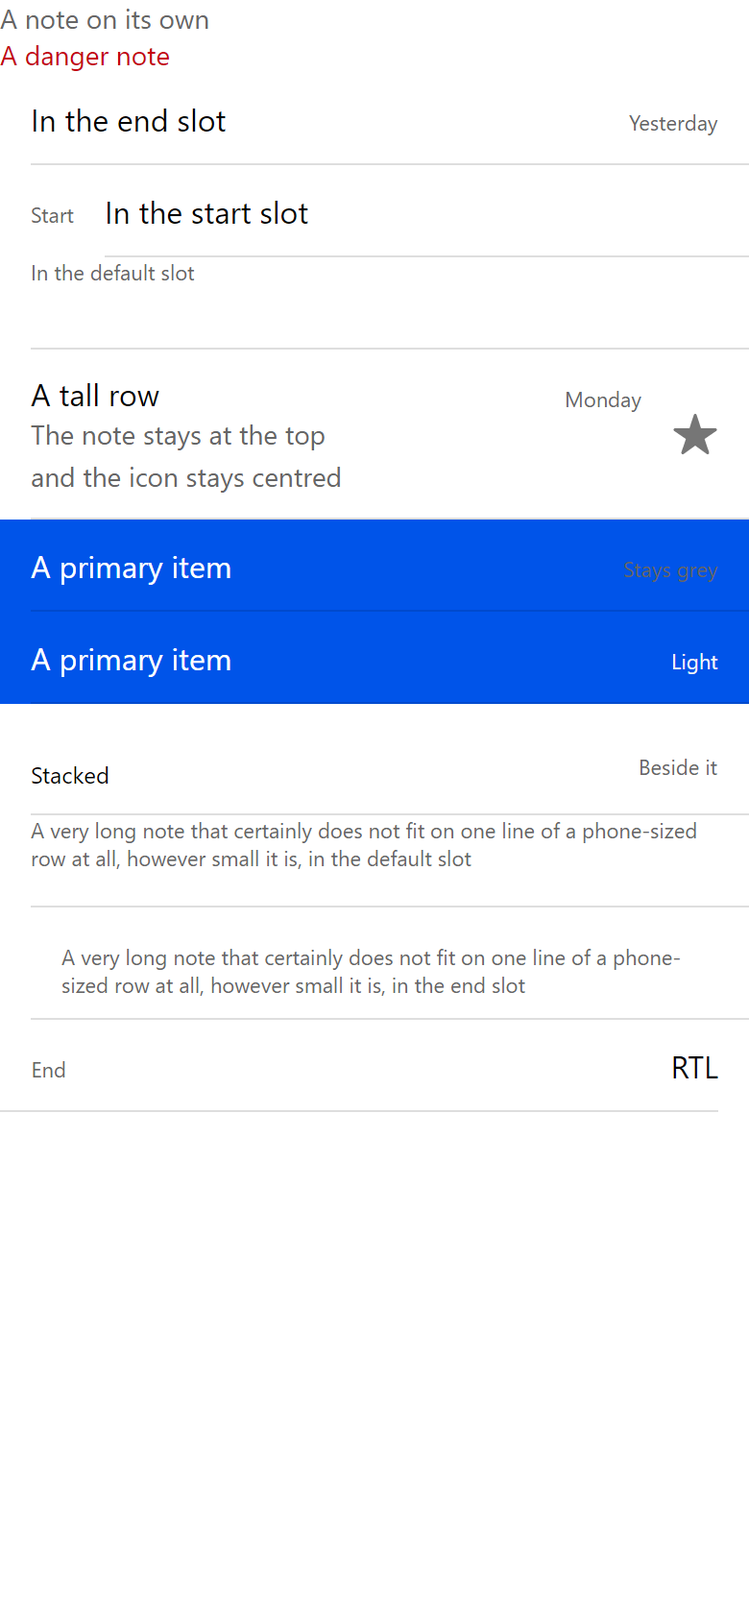
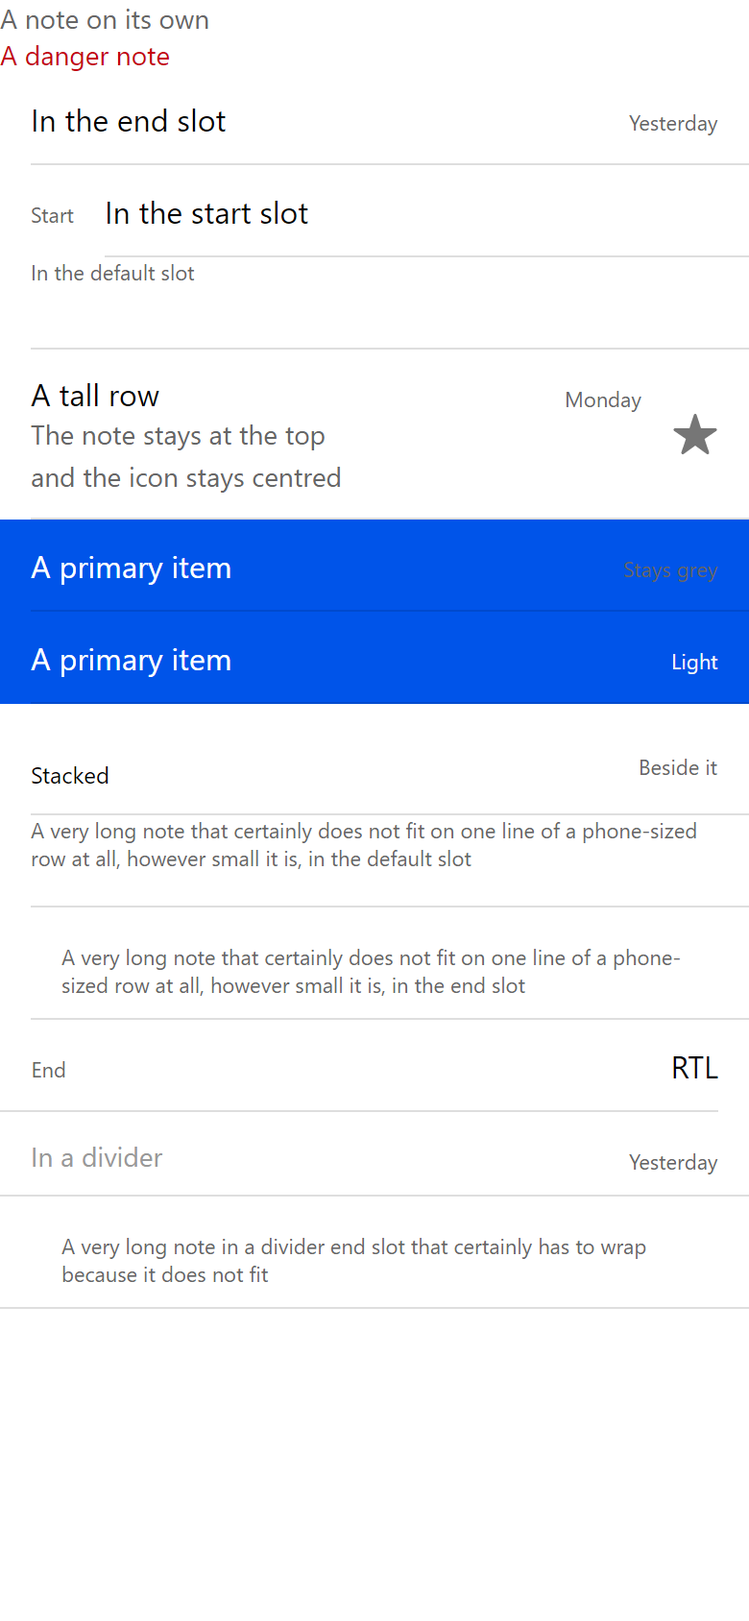
fix: a note in a divider has its slotted styles
item-divider.md.css repeats item.md.css's two ::slotted(ion-note) rules word for word. The divider's plan left them to
ion-note, and ion-note's left them to the divider, so a note in a divider was 14 px and centred. The two rules in
Styles/Note.axaml now match :is(c|IItemHost) instead of c|AvonicItem, which covers the divider at no extra alternatives,
as a group has no slots. Measured against h3 in ion-item's cases: 342 wide and 52 high at y = 0, in a divider of 53.

Closes #74

Changed region(s): [[0.0923, 0.7701, 0.3692, 0.8009], [0.0308, 0.7085, 0.2154, 0.7393], [0.8308, 0.7085, 0.9538, 0.7393]]

diff --git a/docs/components/ion-note/ref/page.html b/docs/components/ion-note/ref/page.html
@@ -5,4 +5,4 @@
 <script>window.Ionic = { config: { mode: 'md' } };</script>
 <script type="module" src="/node_modules/@ionic/core/dist/ionic/ionic.esm.js"></script>
 <style>html,body{margin:0;height:100%;background:var(--ion-background-color,#fff)}</style>
-</head><body><div id="stage"><div><ion-note>A note on its own</ion-note></div><div><ion-note color="danger">A danger note</ion-note></div><ion-item><ion-label>In the end slot</ion-label><ion-note slot="end">Yesterday</ion-note></ion-item><ion-item><ion-note slot="start">Start</ion-note><ion-label>In the start slot</ion-label></ion-item><ion-item><ion-note>In the default slot</ion-note></ion-item><ion-item><ion-label><h2>A tall row</h2><p>The note stays at the top</p><p>and the icon stays centred</p></ion-label><ion-note slot="end">Monday</ion-note><ion-icon name="star" slot="end"></ion-icon></ion-item><ion-item color="primary"><ion-label>A primary item</ion-label><ion-note slot="end">Stays grey</ion-note></ion-item><ion-item color="primary"><ion-label>A primary item</ion-label><ion-note slot="end" color="light">Light</ion-note></ion-item><ion-item><ion-label position="stacked">Stacked</ion-label><ion-note slot="end">Beside it</ion-note></ion-item><ion-item><ion-note>A very long note that certainly does not fit on one line of a phone-sized row at all, however small it is, in the default slot</ion-note></ion-item><ion-item><ion-note slot="end">A very long note that certainly does not fit on one line of a phone-sized row at all, however small it is, in the end slot</ion-note></ion-item><div dir="rtl"><ion-item><ion-label>RTL</ion-label><ion-note slot="end">End</ion-note></ion-item></div></div></body></html>
+</head><body><div id="stage"><div><ion-note>A note on its own</ion-note></div><div><ion-note color="danger">A danger note</ion-note></div><ion-item><ion-label>In the end slot</ion-label><ion-note slot="end">Yesterday</ion-note></ion-item><ion-item><ion-note slot="start">Start</ion-note><ion-label>In the start slot</ion-label></ion-item><ion-item><ion-note>In the default slot</ion-note></ion-item><ion-item><ion-label><h2>A tall row</h2><p>The note stays at the top</p><p>and the icon stays centred</p></ion-label><ion-note slot="end">Monday</ion-note><ion-icon name="star" slot="end"></ion-icon></ion-item><ion-item color="primary"><ion-label>A primary item</ion-label><ion-note slot="end">Stays grey</ion-note></ion-item><ion-item color="primary"><ion-label>A primary item</ion-label><ion-note slot="end" color="light">Light</ion-note></ion-item><ion-item><ion-label position="stacked">Stacked</ion-label><ion-note slot="end">Beside it</ion-note></ion-item><ion-item><ion-note>A very long note that certainly does not fit on one line of a phone-sized row at all, however small it is, in the default slot</ion-note></ion-item><ion-item><ion-note slot="end">A very long note that certainly does not fit on one line of a phone-sized row at all, however small it is, in the end slot</ion-note></ion-item><div dir="rtl"><ion-item><ion-label>RTL</ion-label><ion-note slot="end">End</ion-note></ion-item></div><ion-item-divider><ion-label>In a divider</ion-label><ion-note slot="end">Yesterday</ion-note></ion-item-divider><ion-item-divider><ion-label>Default</ion-label><ion-note slot="end">A very long note in a divider end slot that certainly has to wrap because it does not fit</ion-note></ion-item-divider></div></body></html>

diff --git a/tests/Avonic.Components.Tests/Controls/AvonicNoteTests.cs b/tests/Avonic.Components.Tests/Controls/AvonicNoteTests.cs
@@ -754,4 +754,88 @@ public class AvonicNoteTests
         // A mirrored element's origin is its right-hand edge.
         Assert.Equal(16, Box(note, scene.Window).X - note.Bounds.Width, 1);
     });
+
+    // ── 16. In a divider ─────────────────────────────────────────────────────────────────────
+    // item-divider.md.css has item.md.css's two ::slotted(ion-note) rules, word for word. The numbers are from
+    // docs/components/ion-item/ref/layout/cases.txt, row h3, and the divider's own cases.
+
+    [AvaloniaFact]
+    public void B16_In_A_Dividers_Slots_It_Is_11() => InstalledTheme.Run(_ =>
+    {
+        var start = new AvonicNote { Content = "x" };
+        var main = new AvonicNote { Content = "x" };
+        var end = new AvonicNote { Content = "x" };
+        var inPanel = new AvonicNote { Content = "x" };
+        var deeper = new AvonicNote { Content = "x" };
+        using var scene = InScene(
+            new AvonicItemDivider { StartContent = start, Content = main, EndContent = end },
+            new AvonicItemDivider { FontSize = 30, EndContent = new StackPanel { Children = { inPanel } } },
+            new AvonicItemDivider { EndContent = new Border { Child = deeper } });
+
+        Assert.Equal(11, Text(start).FontSize);
+        Assert.Equal(11, Text(main).FontSize);
+        Assert.Equal(11, Text(end).FontSize);
+        Assert.Equal(11, Text(inPanel).FontSize);
+        Assert.Equal(14, Text(deeper).FontSize);
+    });
+
+    [AvaloniaFact]
+    public void B16_In_A_Dividers_Start_And_End_Slots_It_Has_Padding() => InstalledTheme.Run(_ =>
+    {
+        var start = new AvonicNote { Content = "x" };
+        var main = new AvonicNote { Content = "x" };
+        var end = new AvonicNote { Content = "x" };
+        var inPanel = new AvonicNote { Content = "x" };
+        using var scene = InScene(
+            new AvonicItemDivider { StartContent = start, Content = main, EndContent = end },
+            new AvonicItemDivider { EndContent = new StackPanel { Children = { inPanel } } });
+
+        foreach (var note in new[] { start, end, inPanel })
+        {
+            Assert.Equal(new Thickness(0, 18, 0, 10), note.Padding);
+            Assert.Equal(28 + Text(note).Bounds.Height, note.Bounds.Height);
+        }
+        Assert.Equal(default, main.Padding);
+    });
+
+    [AvaloniaFact]
+    public void B16_It_Is_At_The_Top_Of_A_Divider_And_The_Rest_Is_Centred() => InstalledTheme.Run(_ =>
+    {
+        var start = new AvonicNote { Content = "x" };
+        var end = new AvonicNote { Content = "x" };
+        var inPanel = new AvonicNote { Content = "x" };
+        var other = new TextBlock { Text = "x" };
+        var dividerStart = new AvonicItemDivider { StartContent = start, Content = Tall() };
+        var dividerEnd = new AvonicItemDivider { Content = Tall(), EndContent = end };
+        var dividerPanel = new AvonicItemDivider { Content = Tall(), EndContent = new StackPanel { Orientation = Orientation.Horizontal, Children = { inPanel, other } } };
+        using var scene = InScene(dividerStart, dividerEnd, dividerPanel);
+
+        Assert.True(dividerEnd.Bounds.Height >= 90);
+        Assert.Equal(0, Box(start, dividerStart).Y);
+        Assert.Equal(0, Box(end, dividerEnd).Y);
+        Assert.Equal(0, Box(inPanel, dividerPanel).Y);
+        Assert.True(start.Bounds.Height < 50);
+        Assert.True(end.Bounds.Height < 50);
+        Assert.True(inPanel.Bounds.Height < 50);
+        Assert.InRange(Box(other, dividerPanel).Center.Y - dividerPanel.Bounds.Height / 2, -1, 1);
+        Assert.True(other.Bounds.Height < 25);
+    });
+
+    [AvaloniaFact]
+    public void B16_A_Long_Note_In_A_Dividers_End_Slot_Fills_The_Row_From_The_Top() => InstalledTheme.Run(_ =>
+    {
+        // h3: the note is 342 wide and 52 high at x = 32, y = 0, in a divider of 53. Its height is two lines and the padding.
+        // Its box is as wide as its longest line here, not the slot, which is the item's recorded gap for a long note in a slot.
+        var note = new AvonicNote { Content = "A very long note in a divider end slot that certainly has to wrap because it does not fit" };
+        var divider = new AvonicItemDivider { Content = new AvonicLabel { Content = "Default" }, EndContent = note };
+        using var scene = InScene(divider);
+
+        var box = Box(note, divider);
+        Assert.Equal(32, box.X);
+        Assert.Equal(0, box.Y);
+        Assert.InRange(box.Width, 300, 342);
+        Assert.Equal(28 + Text(note).Bounds.Height, box.Height);
+        Assert.Equal(2, Text(note).TextLayout.TextLines.Count);
+        Assert.Equal(box.Height + 1, divider.Bounds.Height);
+    });
 }

diff --git a/tests/Avonic.Components.Tests/Controls/AvonicNoteCaptureTests.cs b/tests/Avonic.Components.Tests/Controls/AvonicNoteCaptureTests.cs
@@ -64,6 +64,8 @@ public class AvonicNoteCaptureTests
                     EndContent = new AvonicNote { Content = "End" },
                     FlowDirection = FlowDirection.RightToLeft,
                 },
+                new AvonicItemDivider { Content = Label("In a divider"), EndContent = new AvonicNote { Content = "Yesterday" } },
+                new AvonicItemDivider { Content = Label("Default"), EndContent = new AvonicNote { Content = "A very long note in a divider end slot that certainly has to wrap because it does not fit" } },
             },
         };
 
@@ -84,5 +86,10 @@ public class AvonicNoteCaptureTests
         // Measured in Ionic: a long note in the end slot wraps at 342. Aligned left, this is as wide as its longest line.
         var longEnd = (AvonicNote)((AvonicItem)page.Children[10]).EndContent!;
         Assert.InRange(longEnd.Bounds.Width, 300, 342);
+
+        // h3 in docs/components/ion-item/ref/layout/cases.txt: 342 wide at y = 0 in a divider of 53. The same width gap as the item's.
+        var inDivider = (AvonicNote)((AvonicItemDivider)page.Children[13]).EndContent!;
+        Assert.InRange(inDivider.Bounds.Width, 300, 342);
+        Assert.Equal(0, inDivider.TranslatePoint(default, page.Children[13])!.Value.Y);
     });
 }

diff --git a/docs/components/ion-note/ref/README.md b/docs/components/ion-note/ref/README.md
@@ -1,9 +1,9 @@
 # ion-note — reference render (Ionic 8.8.1, md, 390×844@2x)
 
-Generated by `node tools/ionic-ref/render.js ion-note --bare --html "<div><ion-note>A note on its own</ion-note></div><div><ion-note color=\"danger\">A danger note</ion-note></div><ion-item><ion-label>In the end slot</ion-label><ion-note slot=\"end\">Yesterday</ion-note></ion-item><ion-item><ion-note slot=\"start\">Start</ion-note><ion-label>In the start slot</ion-label></ion-item><ion-item><ion-note>In the default slot</ion-note></ion-item><ion-item><ion-label><h2>A tall row</h2><p>The note stays at the top</p><p>and the icon stays centred</p></ion-label><ion-note slot=\"end\">Monday</ion-note><ion-icon name=\"star\" slot=\"end\"></ion-icon></ion-item><ion-item color=\"primary\"><ion-label>A primary item</ion-label><ion-note slot=\"end\">Stays grey</ion-note></ion-item><ion-item color=\"primary\"><ion-label>A primary item</ion-label><ion-note slot=\"end\" color=\"light\">Light</ion-note></ion-item><ion-item><ion-label position=\"stacked\">Stacked</ion-label><ion-note slot=\"end\">Beside it</ion-note></ion-item><ion-item><ion-note>A very long note that certainly does not fit on one line of a phone-sized row at all, however small it is, in the default slot</ion-note></ion-item><ion-item><ion-note slot=\"end\">A very long note that certainly does not fit on one line of a phone-sized row at all, however small it is, in the end slot</ion-note></ion-item><div dir=\"rtl\"><ion-item><ion-label>RTL</ion-label><ion-note slot=\"end\">End</ion-note></ion-item></div>"`
+Generated by `node tools/ionic-ref/render.js ion-note --bare --html "<div><ion-note>A note on its own</ion-note></div><div><ion-note color=\"danger\">A danger note</ion-note></div><ion-item><ion-label>In the end slot</ion-label><ion-note slot=\"end\">Yesterday</ion-note></ion-item><ion-item><ion-note slot=\"start\">Start</ion-note><ion-label>In the start slot</ion-label></ion-item><ion-item><ion-note>In the default slot</ion-note></ion-item><ion-item><ion-label><h2>A tall row</h2><p>The note stays at the top</p><p>and the icon stays centred</p></ion-label><ion-note slot=\"end\">Monday</ion-note><ion-icon name=\"star\" slot=\"end\"></ion-icon></ion-item><ion-item color=\"primary\"><ion-label>A primary item</ion-label><ion-note slot=\"end\">Stays grey</ion-note></ion-item><ion-item color=\"primary\"><ion-label>A primary item</ion-label><ion-note slot=\"end\" color=\"light\">Light</ion-note></ion-item><ion-item><ion-label position=\"stacked\">Stacked</ion-label><ion-note slot=\"end\">Beside it</ion-note></ion-item><ion-item><ion-note>A very long note that certainly does not fit on one line of a phone-sized row at all, however small it is, in the default slot</ion-note></ion-item><ion-item><ion-note slot=\"end\">A very long note that certainly does not fit on one line of a phone-sized row at all, however small it is, in the end slot</ion-note></ion-item><div dir=\"rtl\"><ion-item><ion-label>RTL</ion-label><ion-note slot=\"end\">End</ion-note></ion-item></div><ion-item-divider><ion-label>In a divider</ion-label><ion-note slot=\"end\">Yesterday</ion-note></ion-item-divider><ion-item-divider><ion-label>Default</ion-label><ion-note slot=\"end\">A very long note in a divider end slot that certainly has to wrap because it does not fit</ion-note></ion-item-divider>"`
 
 ```html
-<div><ion-note>A note on its own</ion-note></div><div><ion-note color="danger">A danger note</ion-note></div><ion-item><ion-label>In the end slot</ion-label><ion-note slot="end">Yesterday</ion-note></ion-item><ion-item><ion-note slot="start">Start</ion-note><ion-label>In the start slot</ion-label></ion-item><ion-item><ion-note>In the default slot</ion-note></ion-item><ion-item><ion-label><h2>A tall row</h2><p>The note stays at the top</p><p>and the icon stays centred</p></ion-label><ion-note slot="end">Monday</ion-note><ion-icon name="star" slot="end"></ion-icon></ion-item><ion-item color="primary"><ion-label>A primary item</ion-label><ion-note slot="end">Stays grey</ion-note></ion-item><ion-item color="primary"><ion-label>A primary item</ion-label><ion-note slot="end" color="light">Light</ion-note></ion-item><ion-item><ion-label position="stacked">Stacked</ion-label><ion-note slot="end">Beside it</ion-note></ion-item><ion-item><ion-note>A very long note that certainly does not fit on one line of a phone-sized row at all, however small it is, in the default slot</ion-note></ion-item><ion-item><ion-note slot="end">A very long note that certainly does not fit on one line of a phone-sized row at all, however small it is, in the end slot</ion-note></ion-item><div dir="rtl"><ion-item><ion-label>RTL</ion-label><ion-note slot="end">End</ion-note></ion-item></div>
+<div><ion-note>A note on its own</ion-note></div><div><ion-note color="danger">A danger note</ion-note></div><ion-item><ion-label>In the end slot</ion-label><ion-note slot="end">Yesterday</ion-note></ion-item><ion-item><ion-note slot="start">Start</ion-note><ion-label>In the start slot</ion-label></ion-item><ion-item><ion-note>In the default slot</ion-note></ion-item><ion-item><ion-label><h2>A tall row</h2><p>The note stays at the top</p><p>and the icon stays centred</p></ion-label><ion-note slot="end">Monday</ion-note><ion-icon name="star" slot="end"></ion-icon></ion-item><ion-item color="primary"><ion-label>A primary item</ion-label><ion-note slot="end">Stays grey</ion-note></ion-item><ion-item color="primary"><ion-label>A primary item</ion-label><ion-note slot="end" color="light">Light</ion-note></ion-item><ion-item><ion-label position="stacked">Stacked</ion-label><ion-note slot="end">Beside it</ion-note></ion-item><ion-item><ion-note>A very long note that certainly does not fit on one line of a phone-sized row at all, however small it is, in the default slot</ion-note></ion-item><ion-item><ion-note slot="end">A very long note that certainly does not fit on one line of a phone-sized row at all, however small it is, in the end slot</ion-note></ion-item><div dir="rtl"><ion-item><ion-label>RTL</ion-label><ion-note slot="end">End</ion-note></ion-item></div><ion-item-divider><ion-label>In a divider</ion-label><ion-note slot="end">Yesterday</ion-note></ion-item-divider><ion-item-divider><ion-label>Default</ion-label><ion-note slot="end">A very long note in a divider end slot that certainly has to wrap because it does not fit</ion-note></ion-item-divider>
 ```
 
 ![page](page.png) ![element](element.png)
@@ -616,6 +616,112 @@ Generated by `node tools/ionic-ref/render.js ion-note --bare --html "<div><ion-n
 | min-width | `auto` |
 | padding | `18px 0px 10px` |
 | margin | `0px 16px 0px 0px` |
+| border | `0px none rgb(102, 102, 102)` |
+| border-radius | `0px` |
+| background-color | `rgba(0, 0, 0, 0)` |
+| color | `rgb(102, 102, 102)` |
+| font-size | `11px` |
+| font-weight | `400` |
+| font-family | `Roboto, "Helvetica Neue", sans-serif` |
+| line-height | `normal` |
+| letter-spacing | `normal` |
+| text-transform | `none` |
+| opacity | `1` |
+| overflow | `visible` |
+| contain | `none` |
+| pointer-events | `auto` |
+| transition | `all` |
+| transform | `none` |
+| box-shadow | `none` |
+| outline | `rgb(102, 102, 102) none 0px` |
+| cursor | `auto` |
+
+### DOM tree
+
+```
+<ion-note>
+  #shadow-root
+    <slot name="">
+```
+
+## Element 13
+
+- attributes: `{"slot":"end","class":"md hydrated"}`
+- classes: `md hydrated`
+- rect: `{"x":325.47,"y":568.19,"w":48.53,"h":40}`
+
+### CSS custom properties (resolved)
+
+| var | value |
+|---|---|
+| `--color` | `#666666` |
+
+### Host computed
+
+| prop | value |
+|---|---|
+| display | `block` |
+| position | `static` |
+| box-sizing | `border-box` |
+| width | `48.5312px` |
+| height | `40px` |
+| min-height | `auto` |
+| min-width | `auto` |
+| padding | `18px 0px 10px` |
+| margin | `0px 0px 0px 16px` |
+| border | `0px none rgb(102, 102, 102)` |
+| border-radius | `0px` |
+| background-color | `rgba(0, 0, 0, 0)` |
+| color | `rgb(102, 102, 102)` |
+| font-size | `11px` |
+| font-weight | `400` |
+| font-family | `Roboto, "Helvetica Neue", sans-serif` |
+| line-height | `normal` |
+| letter-spacing | `normal` |
+| text-transform | `none` |
+| opacity | `1` |
+| overflow | `visible` |
+| contain | `none` |
+| pointer-events | `auto` |
+| transition | `all` |
+| transform | `none` |
+| box-shadow | `none` |
+| outline | `rgb(102, 102, 102) none 0px` |
+| cursor | `auto` |
+
+### DOM tree
+
+```
+<ion-note>
+  #shadow-root
+    <slot name="">
+```
+
+## Element 14
+
+- attributes: `{"slot":"end","class":"md hydrated"}`
+- classes: `md hydrated`
+- rect: `{"x":32,"y":609.19,"w":342,"h":52}`
+
+### CSS custom properties (resolved)
+
+| var | value |
+|---|---|
+| `--color` | `#666666` |
+
+### Host computed
+
+| prop | value |
+|---|---|
+| display | `block` |
+| position | `static` |
+| box-sizing | `border-box` |
+| width | `342px` |
+| height | `52px` |
+| min-height | `auto` |
+| min-width | `auto` |
+| padding | `18px 0px 10px` |
+| margin | `0px 0px 0px 16px` |
 | border | `0px none rgb(102, 102, 102)` |
 | border-radius | `0px` |
 | background-color | `rgba(0, 0, 0, 0)` |

diff --git a/docs/components/ion-note/COMPARISON.md b/docs/components/ion-note/COMPARISON.md
@@ -3,7 +3,7 @@
 > Ionic side (Chromium, md, 390×844@2x) → [`ref/`](ref/). The exact command:
 >
 > ```
-> node tools/ionic-ref/render.js ion-note --bare --html '<div><ion-note>A note on its own</ion-note></div><div><ion-note color="danger">A danger note</ion-note></div><ion-item><ion-label>In the end slot</ion-label><ion-note slot="end">Yesterday</ion-note></ion-item><ion-item><ion-note slot="start">Start</ion-note><ion-label>In the start slot</ion-label></ion-item><ion-item><ion-note>In the default slot</ion-note></ion-item><ion-item><ion-label><h2>A tall row</h2><p>The note stays at the top</p><p>and the icon stays centred</p></ion-label><ion-note slot="end">Monday</ion-note><ion-icon name="star" slot="end"></ion-icon></ion-item><ion-item color="primary"><ion-label>A primary item</ion-label><ion-note slot="end">Stays grey</ion-note></ion-item><ion-item color="primary"><ion-label>A primary item</ion-label><ion-note slot="end" color="light">Light</ion-note></ion-item><ion-item><ion-label position="stacked">Stacked</ion-label><ion-note slot="end">Beside it</ion-note></ion-item><ion-item><ion-note>A very long note that certainly does not fit on one line of a phone-sized row at all, however small it is, in the default slot</ion-note></ion-item><ion-item><ion-note slot="end">A very long note that certainly does not fit on one line of a phone-sized row at all, however small it is, in the end slot</ion-note></ion-item><div dir="rtl"><ion-item><ion-label>RTL</ion-label><ion-note slot="end">End</ion-note></ion-item></div>'
+> node tools/ionic-ref/render.js ion-note --bare --html '<div><ion-note>A note on its own</ion-note></div><div><ion-note color="danger">A danger note</ion-note></div><ion-item><ion-label>In the end slot</ion-label><ion-note slot="end">Yesterday</ion-note></ion-item><ion-item><ion-note slot="start">Start</ion-note><ion-label>In the start slot</ion-label></ion-item><ion-item><ion-note>In the default slot</ion-note></ion-item><ion-item><ion-label><h2>A tall row</h2><p>The note stays at the top</p><p>and the icon stays centred</p></ion-label><ion-note slot="end">Monday</ion-note><ion-icon name="star" slot="end"></ion-icon></ion-item><ion-item color="primary"><ion-label>A primary item</ion-label><ion-note slot="end">Stays grey</ion-note></ion-item><ion-item color="primary"><ion-label>A primary item</ion-label><ion-note slot="end" color="light">Light</ion-note></ion-item><ion-item><ion-label position="stacked">Stacked</ion-label><ion-note slot="end">Beside it</ion-note></ion-item><ion-item><ion-note>A very long note that certainly does not fit on one line of a phone-sized row at all, however small it is, in the default slot</ion-note></ion-item><ion-item><ion-note slot="end">A very long note that certainly does not fit on one line of a phone-sized row at all, however small it is, in the end slot</ion-note></ion-item><div dir="rtl"><ion-item><ion-label>RTL</ion-label><ion-note slot="end">End</ion-note></ion-item></div><ion-item-divider><ion-label>In a divider</ion-label><ion-note slot="end">Yesterday</ion-note></ion-item-divider><ion-item-divider><ion-label>Default</ion-label><ion-note slot="end">A very long note in a divider end slot that certainly has to wrap because it does not fit</ion-note></ion-item-divider>'
 > ```
 >
 > Avonic side: `AVONIC_CAPTURE_DIR=… dotnet test` → `AvonicNoteCaptureTests` (headless Skia, 2×) → [`compare/`](compare/).
@@ -57,6 +57,7 @@ The numbers are from [PLAN.md](PLAN.md#behaviours). Each has tests in `AvonicNot
 | 13 | A button item's name includes its text | native `<button>` | match |
 | 14 | RTL | an end note at x = 16, with its margin on the right | match |
 | 15 | In a nowrap label | `white-space: nowrap`, cut off by the label | match, with the class on the note or on a label. See the plan |
+| 16 | In a divider's slots: 6, 7 and 8 again, from `item-divider.md.css` | `h3` in [`ion-item`'s cases](../ion-item/ref/layout/cases.txt): 342 × 52 at x = 32, y = 0, in a divider of 53 | match, since [#74](https://github.com/wdcossey/Avonic/issues/74). Before it, 14 px and centred |
 
 ## Deliberate differences and known gaps
 

diff --git a/docs/components/ion-note/PLAN.md b/docs/components/ion-note/PLAN.md
@@ -49,6 +49,7 @@ Each becomes a test.
 | 13 | A button item's name includes the note's text | native `<button>` |
 | 14 | RTL: an end note sits at the left, with its margin on the right | measured `rtl`: x = 16, margin-right 16 |
 | 15 | With `.ion-text-nowrap` on it, it's one line. In a label with that class, also with an ellipsis | The global class; `white-space` inherits; measured `nw-n`: 703 wide, cut off by the label's 358 |
+| 16 | In an `AvonicItemDivider`'s slots, 6, 7 and 8 hold too, as `item-divider.md.css` repeats both rules word for word. Added by [#74](https://github.com/wdcossey/Avonic/issues/74) | `::slotted(ion-note)`, `::slotted(ion-note[slot])` in `item-divider.md.css`; measured `h3` in [`ion-item`'s cases](../ion-item/ref/layout/cases.txt): 342 × 52 at x = 32, y = 0, in a divider of 53 |
 
 ## Design
 
@@ -95,7 +96,7 @@ types nothing.
 
 | What | Goes with |
 |---|---|
-| `::slotted(ion-note)` in `item-divider.md.css` | `ion-item-divider` (#9): it adds its own rules for the same pseudoclass |
+| `::slotted(ion-note)` in `item-divider.md.css` | Was left to `ion-item-divider` (#9), which left it to this control, so neither had it. [#74](https://github.com/wdcossey/Avonic/issues/74) put it here, as behaviour 16: the two slotted rules match `:is(c\|IItemHost)` instead of `c\|AvonicItem`, which costs no alternatives, as a group has no slots |
 | The default text size outside a host | Not relevant here, because a note sets its own |
 
 ## Dependencies

diff --git a/docs/components/ion-item-divider/PLAN.md b/docs/components/ion-item-divider/PLAN.md
@@ -119,7 +119,7 @@ and layout rounding makes that 25. The tests found this.
 | What | Goes with |
 |---|---|
 | `h1`–`h6` in a divider. `::slotted(h1)`'s margins are dead in real Ionic: global typography beats them. Measured `dh1` to `dh6`: sizes 26, 24, 22, 20, 18, 16, weight 500, line height 1.2, 16 above except `h1` 20 and `h2` 18, 10 below | Global typography, which has nowhere to live yet. `ion-text` (#8) or a later global style |
-| `::slotted(ion-note)`, `ion-avatar`, `ion-thumbnail`, `ion-button`'s `inItem` | Those controls (#8, #16, #10), in their own `Styles` files. Values are in `item-divider.md.css` |
+| `ion-avatar`, `ion-thumbnail`, `ion-button`'s `inItem` | Those controls (#16, #10), in their own `Styles` files. Values are in `item-divider.md.css`. `::slotted(ion-note)` was left to `ion-note` the same way, and fell between the two until [#74](https://github.com/wdcossey/Avonic/issues/74) put it in `Styles/Note.axaml` |
 | `--ion-safe-area-*` | `ion-content` (#11), as for `ion-item` |
 
 ## Dependencies

diff --git a/docs/components/ion-note/README.md b/docs/components/ion-note/README.md
@@ -41,8 +41,8 @@ The default slot is `Content` and `ContentTemplate`. It has no named slots, part
 Everything is listed and measured in [PLAN.md](PLAN.md#behaviours). In short:
 
 - **On its own** it's 14 px and grey, whatever's around it.
-- **Directly in an item's slot** it's 11 px, at the top of the row however tall the row is. In the start or end slot
-  it has 18 above and 10 below, so its text lines up with a one-line label beside it.
+- **Directly in an item's or a divider's slot** it's 11 px, at the top of the row however tall the row is. In the start
+  or end slot it has 18 above and 10 below, so its text lines up with a one-line label beside it.
 - **A coloured item doesn't change it,** so it stays grey on the item's colour, as in Ionic. Set `Color` for a note that
   shows up there.
 - **It's as wide as its text,** and a tap on it doesn't reach the item's first control.
